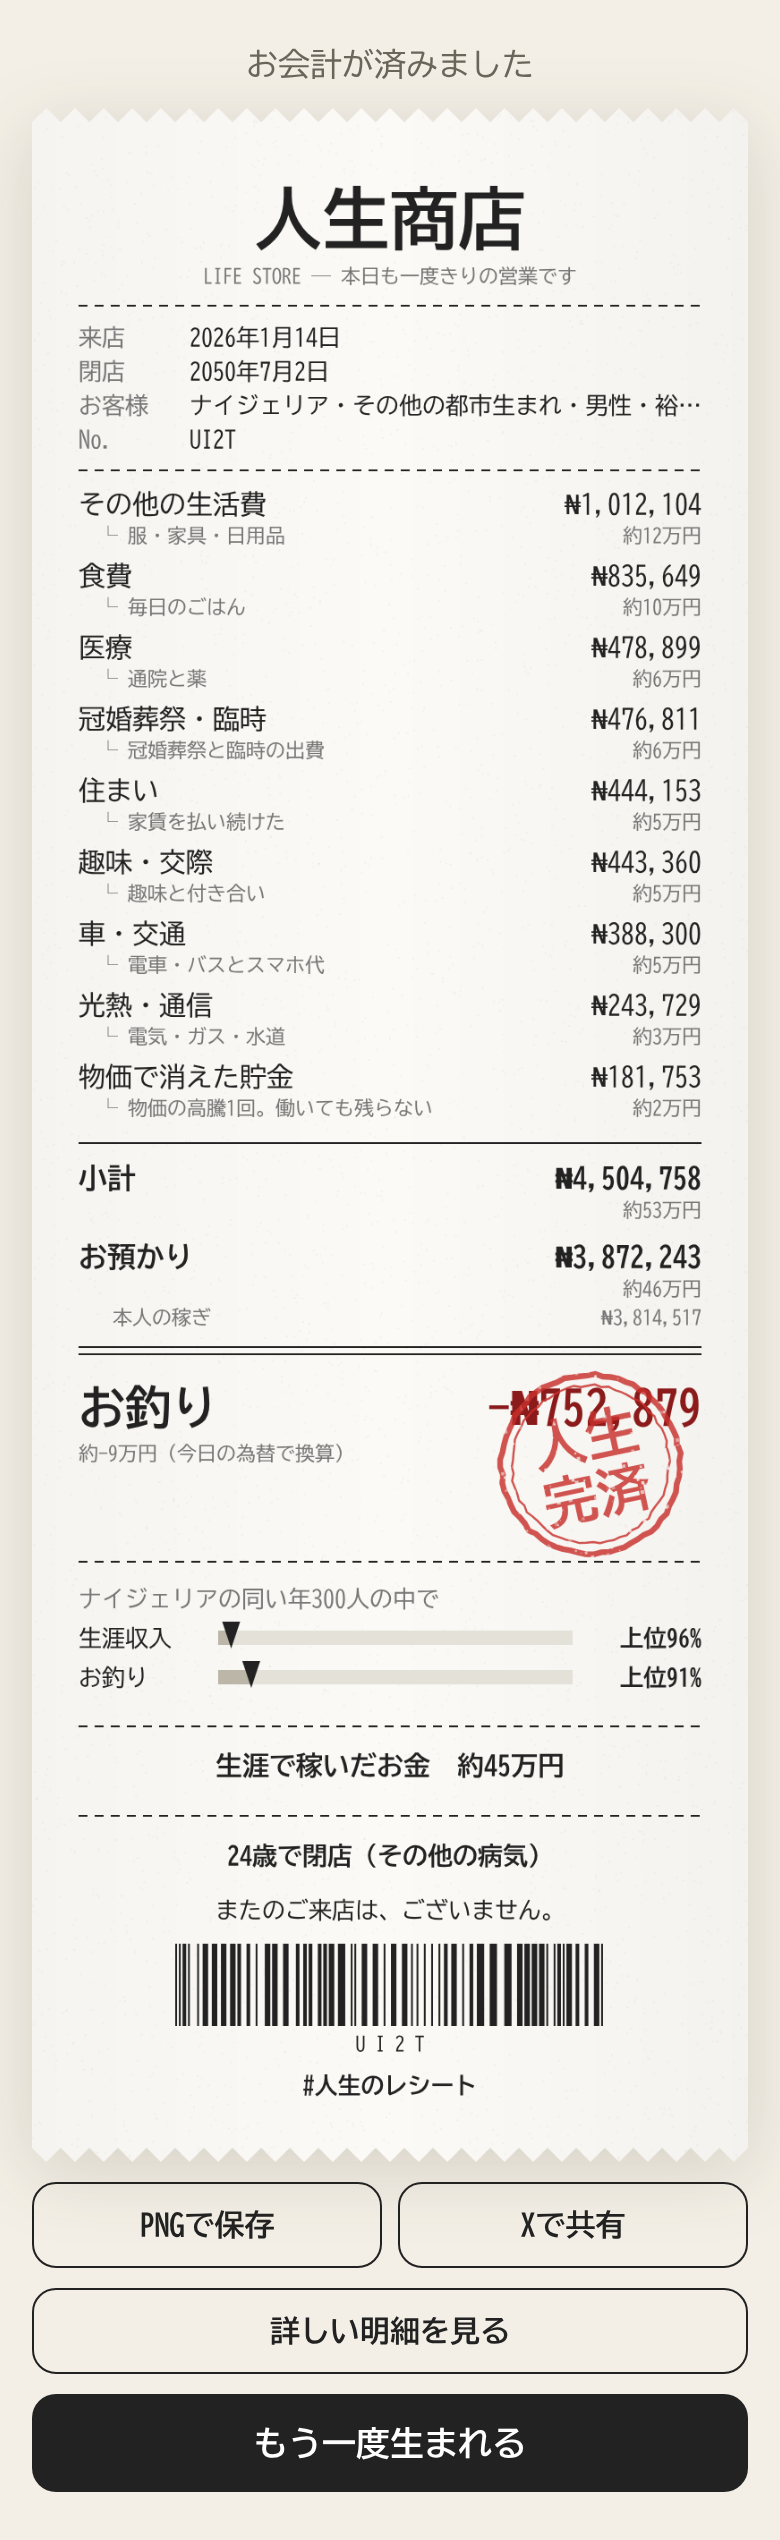
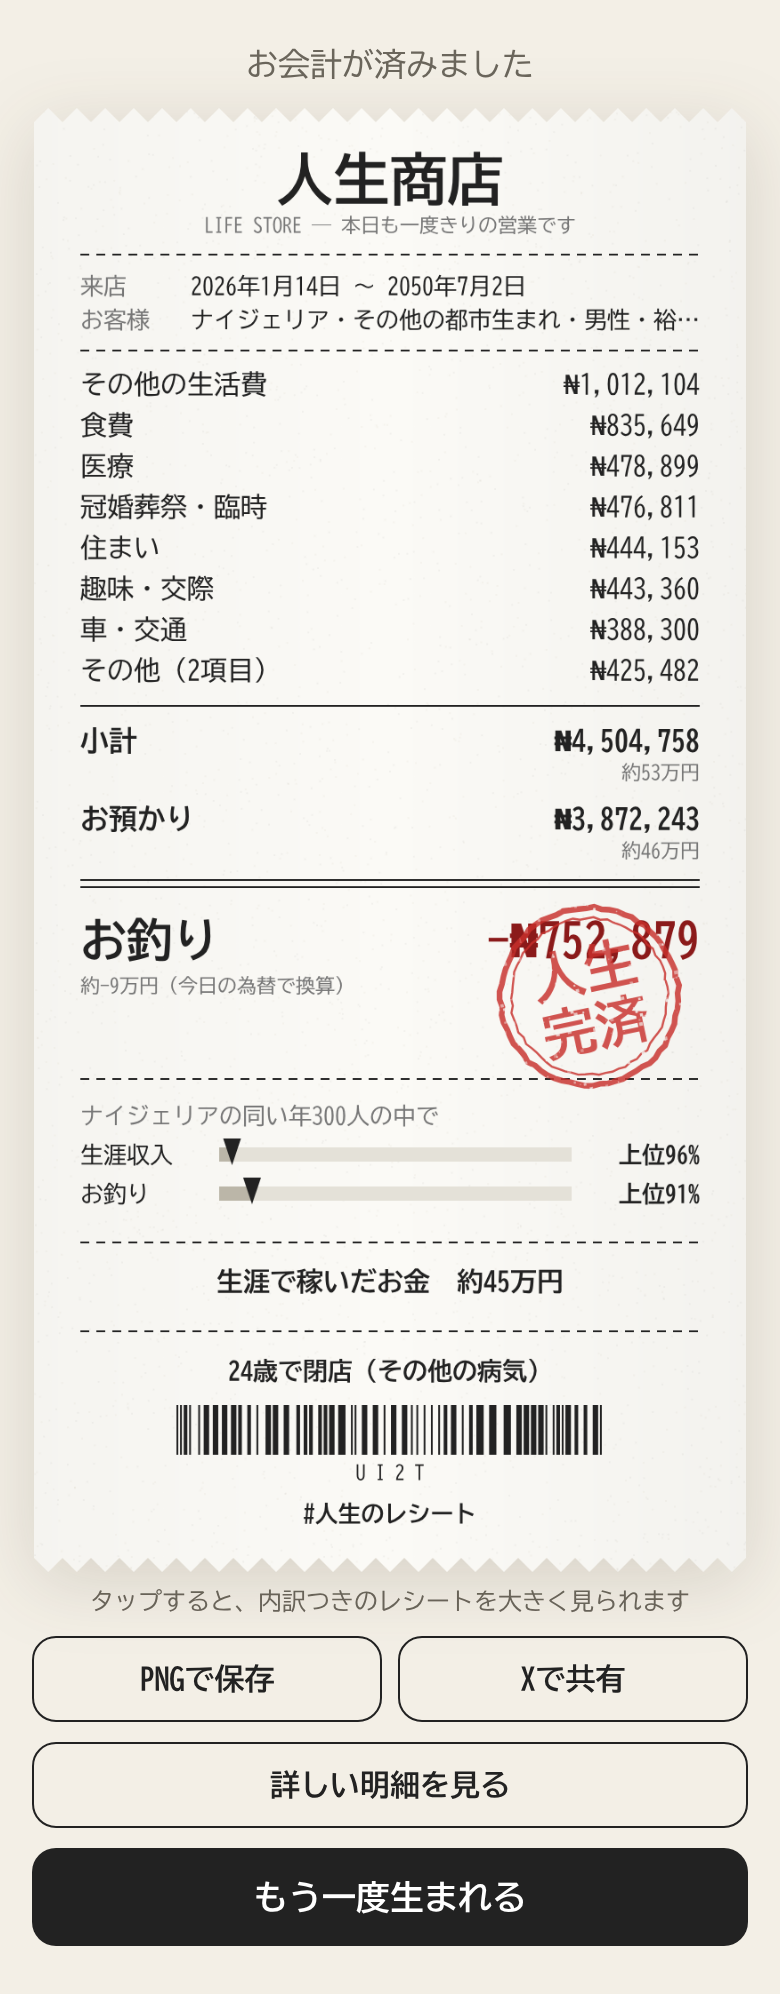
結果画面のレシートを1画面に収め、タップで内訳つきを大きく見られるように
画面には短いレシート（費目は上位7つとその他、説明・内訳は省略）を、
見出しを除いた画面の高さに収まる大きさで出す。保存する画像は今までの長いレシートのまま。

Claude-Session: https://claude.ai/code/session_01P8h7G7H9Hz4F9jwmunJGJH

Changed region(s): [[0.0308, 0.0, 0.9538, 0.995], [0.6462, 0.0, 0.6769, 0.0311], [0.3692, 0.2798, 0.4, 0.3109]]

diff --git a/src/ui/receipt.ts b/src/ui/receipt.ts
@@ -65,6 +65,8 @@ interface Pen {
   draw: boolean;
   y: number;
   changeY: number;
+  /** 画面用の短いレシート（費目の説明や内訳を省く）。保存する画像は省かない */
+  compact?: boolean;
 }
 
 function text(p: Pen, s: string, x: number, size: number, opts: { bold?: boolean; align?: CanvasTextAlign; color?: string; maxW?: number } = {}): void {
@@ -134,8 +136,7 @@ function rankBar(p: Pen, label: string, rank: number): void {
   }
 }
 
-function barcode(p: Pen, code: string): void {
-  const h = 46;
+function barcode(p: Pen, code: string, h = 46): void {
   const top = p.y + 14;
   if (p.draw) {
     const { ctx } = p;
@@ -223,20 +224,29 @@ function stamp(ctx: CanvasRenderingContext2D, d: ReceiptData, cx: number, cy: nu
   ctx.restore();
 }
 
+/** 短いレシートで出す費目の数。残りは「その他」にまとめる */
+const COMPACT_ITEMS = 7;
+
 function layout(p: Pen, d: ReceiptData): void {
-  p.y = TOOTH + 34;
+  const c = !!p.compact;
+  p.y = TOOTH + (c ? 14 : 34);
   // 店名
-  p.y += 34;
-  text(p, "人生商店", W / 2, 38, { bold: true, align: "center" });
-  p.y += 22;
+  p.y += c ? 30 : 34;
+  text(p, "人生商店", W / 2, c ? 32 : 38, { bold: true, align: "center" });
+  p.y += c ? 18 : 22;
   text(p, "LIFE STORE ─ 本日も一度きりの営業です", W / 2, 11, { align: "center", color: GRAY });
   rule(p);
-  const info: [string, string][] = [
-    ["来店", d.visitDate],
-    ["閉店", d.closeDate],
-    ["お客様", d.customer],
-    ["No.", d.receiptNo],
-  ];
+  const info: [string, string][] = c
+    ? [
+        ["来店", `${d.visitDate} 〜 ${d.closeDate}`],
+        ["お客様", d.customer],
+      ]
+    : [
+        ["来店", d.visitDate],
+        ["閉店", d.closeDate],
+        ["お客様", d.customer],
+        ["No.", d.receiptNo],
+      ];
   for (const [k, v] of info) {
     p.y += 19;
     text(p, k, PAD, 13, { color: GRAY });
@@ -252,7 +262,17 @@ function layout(p: Pen, d: ReceiptData): void {
     if (jp || !p.draw) return;
     text(p, approxYen(amount * d.currency.jpyPerUnit), W - PAD, 11, { color: GRAY, align: "right" });
   };
-  for (const it of d.items) {
+  let items = d.items;
+  if (c && items.length > COMPACT_ITEMS + 1) {
+    const rest = items.slice(COMPACT_ITEMS);
+    items = [...items.slice(0, COMPACT_ITEMS), { ...rest[0], label: `その他（${rest.length}項目）`, amount: rest.reduce((t, i) => t + i.amount, 0), memo: "" }];
+  }
+  for (const it of items) {
+    if (c) {
+      row(p, it.label, money(it.amount), 15);
+      p.y += 2;
+      continue;
+    }
     row(p, it.label, money(it.amount), 15);
     const memo = it.memo && it.memo !== "—";
     if (memo || !jp) {
@@ -274,7 +294,7 @@ function layout(p: Pen, d: ReceiptData): void {
     p.y += 16;
     yenNote(d.deposit);
   }
-  for (const l of d.depositLines) {
+  for (const l of c ? [] : d.depositLines) {
     p.y += 16;
     if (p.draw) {
       text(p, "　" + l.label, PAD + 8, 11, { color: GRAY });
@@ -289,8 +309,8 @@ function layout(p: Pen, d: ReceiptData): void {
     p.y += 20;
     // はんこと重ならないよう左に寄せる
     text(p, `${approxYen(d.change * d.currency.jpyPerUnit)}（今日の為替で換算）`, PAD, 11, { color: GRAY });
-    p.y += 44;
-  } else p.y += 64; // はんこの置き場
+    p.y += c ? 36 : 44;
+  } else p.y += c ? 50 : 64; // はんこの置き場
   rule(p);
   p.y += 22;
   text(p, jp ? `同い年${d.cohortSize}人の中で` : `${d.countryName}の同い年${d.cohortSize}人の中で`, PAD, 13, { color: GRAY });
@@ -305,12 +325,14 @@ function layout(p: Pen, d: ReceiptData): void {
   rule(p);
   p.y += 24;
   text(p, d.deathLine, W / 2, 14, { bold: true, align: "center", maxW: W - PAD * 2 });
-  p.y += 30;
-  text(p, d.closing, W / 2, 13, { align: "center", maxW: W - PAD * 2 });
-  barcode(p, d.receiptNo);
+  if (!c) {
+    p.y += 30;
+    text(p, d.closing, W / 2, 13, { align: "center", maxW: W - PAD * 2 });
+  }
+  barcode(p, d.receiptNo, c ? 28 : 46);
   p.y += 24;
   text(p, "#人生のレシート", W / 2, 13, { bold: true, align: "center" });
-  p.y += 30 + TOOTH;
+  p.y += (c ? 20 : 30) + TOOTH;
 }
 
 function paperPath(ctx: CanvasRenderingContext2D, H: number): void {
@@ -330,11 +352,11 @@ function paperPath(ctx: CanvasRenderingContext2D, H: number): void {
   ctx.closePath();
 }
 
-export function drawReceipt(canvas: HTMLCanvasElement, d: ReceiptData): void {
+export function drawReceipt(canvas: HTMLCanvasElement, d: ReceiptData, compact = false): void {
   const dpr = Math.max(2, Math.ceil(window.devicePixelRatio || 1));
   const mctx = canvas.getContext("2d");
   if (!mctx) return;
-  const measure: Pen = { ctx: mctx, draw: false, y: 0, changeY: 0 };
+  const measure: Pen = { ctx: mctx, draw: false, y: 0, changeY: 0, compact };
   layout(measure, d);
   const H = Math.ceil(measure.y);
 
@@ -364,14 +386,14 @@ export function drawReceipt(canvas: HTMLCanvasElement, d: ReceiptData): void {
   ctx.fillStyle = g;
   ctx.fillRect(0, 0, W, H);
 
-  const pen: Pen = { ctx, draw: true, y: 0, changeY: 0 };
+  const pen: Pen = { ctx, draw: true, y: 0, changeY: 0, compact };
   layout(pen, d);
   stamp(ctx, d, W - PAD - 62, pen.changeY + 36);
   ctx.restore();
 }
 
 // レシートに書く決まった文字（数字・記号を含む）
-const FIXED_TEXT = "人生商店LIFE STORE ─ 本日も一度きりの営業です来店閉店お客様No.小計お預かりお釣り約万円億（今日の為替で換算）同い年人の中で生涯収入上位%生涯で稼いだお金#人生のレシート—…　└¥0123456789,.-";
+const FIXED_TEXT = "その他（項目）〜人生商店LIFE STORE ─ 本日も一度きりの営業です来店閉店お客様No.小計お預かりお釣り約万円億（今日の為替で換算）同い年人の中で生涯収入上位%生涯で稼いだお金#人生のレシート—…　└¥0123456789,.-";
 
 /**
  * レシートで使う文字のフォントを、描く前に読み込む。
@@ -387,13 +409,13 @@ export async function loadReceiptFonts(d: ReceiptData, timeoutMs = 4000): Promis
 }
 
 /** フォントを読み込んでから描く。間に合わなかった文字があれば、読み込み終わったときに描き直す */
-export async function showReceipt(canvas: HTMLCanvasElement, d: ReceiptData): Promise<void> {
+export async function showReceipt(canvas: HTMLCanvasElement, d: ReceiptData, compact = false): Promise<void> {
   await loadReceiptFonts(d);
-  drawReceipt(canvas, d);
+  drawReceipt(canvas, d, compact);
   const f = typeof document !== "undefined" ? document.fonts : undefined;
   if (f && f.status === "loading") {
     const redraw = () => {
-      drawReceipt(canvas, d);
+      drawReceipt(canvas, d, compact);
       if (f.status !== "loading") f.removeEventListener("loadingdone", redraw);
     };
     f.addEventListener("loadingdone", redraw);

diff --git a/src/main.ts b/src/main.ts
@@ -337,7 +337,8 @@ async function showResult(life: Life): Promise<void> {
   const url = detailUrl(life, location.origin + location.pathname.replace(/\/[^/]*$/, ""));
   const root = h(`<div class="result">
     <h2>お会計が済みました</h2>
-    <canvas id="rc"></canvas>
+    <button class="rc-wrap" id="rc-open" aria-label="レシートを大きく見る"><canvas id="rc"></canvas></button>
+    <p class="rc-hint">タップすると、内訳つきのレシートを大きく見られます</p>
     <div class="row2">
       <button class="btn sub" id="png">PNGで保存</button>
       <a class="btn sub" id="x" href="${esc(shareIntentUrl(url, data))}" target="_blank" rel="noopener">Xで共有</a>
@@ -347,9 +348,20 @@ async function showResult(life: Life): Promise<void> {
   </div>`);
   app.innerHTML = "";
   app.append(root);
+  // 画面には短いレシートを1画面に収めて出す。保存・拡大は内訳つきの長いレシート
   const cv = root.querySelector<HTMLCanvasElement>("#rc")!;
-  await showReceipt(cv, data);
-  root.querySelector<HTMLElement>("#png")!.onclick = () => downloadReceipt(cv, `jinsei-receipt-${life.seed}.png`);
+  const full = document.createElement("canvas");
+  full.className = "rc-full";
+  await Promise.all([showReceipt(cv, data, true), showReceipt(full, data)]);
+  root.querySelector<HTMLElement>("#png")!.onclick = () => downloadReceipt(full, `jinsei-receipt-${life.seed}.png`);
+  root.querySelector<HTMLElement>("#rc-open")!.onclick = () => {
+    const z = h(`<div class="rc-zoom" role="dialog" aria-label="レシート"><button class="rc-close" aria-label="閉じる">閉じる</button></div>`);
+    z.append(full);
+    z.onclick = (e) => {
+      if (e.target === z || (e.target as HTMLElement).classList.contains("rc-close")) z.remove();
+    };
+    document.body.append(z);
+  };
   root.querySelector<HTMLElement>("#again")!.onclick = () => showTitle();
   (window as unknown as { __result: unknown }).__result = { url, data };
   window.scrollTo(0, 0);

diff --git a/src/style.css b/src/style.css
@@ -482,11 +482,59 @@ button {
   color: var(--sub);
   font-weight: 400;
 }
-.result canvas {
-  width: 100%;
-  height: auto;
+.result canvas,
+.rc-zoom canvas {
   display: block;
   filter: drop-shadow(0 8px 18px rgba(60, 50, 30, 0.15));
+}
+/* 画面のレシート：見出しとヒントを除いた高さに収まるよう縮める */
+.rc-wrap {
+  display: block;
+  padding: 0;
+  border: 0;
+  background: none;
+  cursor: zoom-in;
+}
+.result #rc {
+  width: auto;
+  height: auto;
+  max-width: 100%;
+  max-height: calc(100svh - 112px - var(--safe-b));
+  margin: 0 auto;
+}
+.rc-hint {
+  margin: -2px 0 2px;
+  text-align: center;
+  font-size: 12px;
+  color: var(--sub);
+}
+/* 拡大表示：内訳つきの長いレシートを、指でスクロールして読む */
+.rc-zoom {
+  position: fixed;
+  inset: 0;
+  z-index: 50;
+  overflow-y: auto;
+  background: rgba(30, 26, 20, 0.72);
+  padding: 56px 12px calc(32px + var(--safe-b));
+}
+.rc-zoom canvas {
+  width: 100%;
+  max-width: 480px;
+  height: auto;
+  margin: 0 auto;
+}
+.rc-close {
+  position: fixed;
+  top: calc(10px + env(safe-area-inset-top, 0px));
+  right: 12px;
+  z-index: 51;
+  padding: 8px 16px;
+  border-radius: 999px;
+  border: 0;
+  background: var(--paper);
+  color: var(--ink);
+  font-size: 14px;
+  font-weight: 700;
 }
 .result .row2 {
   display: grid;

diff --git a/README.md b/README.md
@@ -22,7 +22,7 @@
    - **結婚の場面**：自分で相手を見つける国では「出会い（食事に誘う・友だちのまま・自分のことを優先）→ 恋人として付き合う（別れることもある）→ 結婚の話（式を挙げて／挙げずに結婚・まだ先にする・別れる）」と段階を踏む。結婚しないと決めたあとでも、まれにいい出会いがある。家族が相手を決めることが多い国では縁談（日本ではお見合い）が来て、一部の国では子どものころに許嫁が決まる。持参金（ダウリー）・婚資（ブライドプライス・マフル）のやりとりも国の習わしで起きる。国ごとの目安は data/world/marriage.json（今は地域ごとの推定）。結婚はゲームの中では18歳以上だけで起きる。
    - **統計にもとづく出来事**：物価の暴騰（通貨の価値が急落）、盗難・強盗、政情不安、紛争による避難、感染症、干ばつ、洪水・地震。起こりやすさはその国のインフレ率・殺人率・政治の安定度などから決まる。物価が荒れやすい国では「ドルや金で貯める」選択も出る。毎年の物価上昇率は、その国で実際に記録された年の値をひと続きで借りてくる（例：「物価が1年で42%上がった（イランで2025年に実際に記録された上昇率）」）。物価で目減りした現金は、レシートに「物価で消えた貯金」として別の行で出る。レシート画像の下の方には「生涯で稼いだお金　約◯◯円」が入り、Xの投稿文も「イランに生まれ、生涯で稼いだお金は約803万円。」のように始まる（本人の稼ぎだけ。パートナーの稼ぎ・年金・手当は含めない）。リンクを共有したときのプレビュー画像は public/og.png（`node scripts/ogimage.mjs` で作り直せる）。
    - どの道にも得と損の両方がある。正解はない。
-6. 亡くなるとレシートが発行される。金額は現地通貨（日本以外は円換算も併記）。**PNGで保存**／**Xで共有**／**詳しい明細を見る** ができる。
+6. 亡くなるとレシートが発行される。金額は現地通貨（日本以外は円換算も併記）。画面では1画面に収まる短いレシート（費目は上位7つ＋その他、説明や内訳は省く）を出し、タップすると内訳つきの長いレシートを大きく見られる。保存する画像は長いレシートのまま。**PNGで保存**／**Xで共有**／**詳しい明細を見る** ができる。
 
 - 同じシードなら同じ人生：`/?seed=好きな文字列`（タイトルでモードを選ぶ）
 - 0〜5歳は、成長の場面（初めて歩いた、保育園・幼稚園、七五三、ランドセルなど）が毎年1〜2個出る。日本かどうか・都市か農村か・国の所得水準で中身が変わる。出来事も言い回しもランダム。行事は「その国でほぼ全員が経験するもの」（日本のランドセルなど）は必ず出し、「家庭によって違うもの」（七五三、保育園と幼稚園のどちらか）は確率で出す。ほかの国の行事を足すときもこの決まりで決める。主要19か国（インド・中国・ナイジェリア・アメリカ・フランス・韓国など）は、その国の行事も出る（命名式、アキーカ、洗礼、満月祝い・百日、抓周・トルジャンチ・トイノイ、ハロウィーン、中秋節、ザンクト・マルティン、6歳の入学のシュールテューテなど。資料は `data/world/manual/jinsei_receipt_part8.csv`、ゲームの文は `src/engine/rites.ts`）。宗教や民族で決まる行事は、その人たちの割合くらいの確率にしている。出生届や予防接種の記録は本人の思い出にならないので入れていない。お金は動かさず専用の乱数を使うので、ほかの出来事・選択・金額には影響しない（`src/engine/early.ts`）。ドット絵も合わせて変わる（よちよち歩き、幼稚園の黄色い帽子、七五三の着物・はかま、ランドセル）。
